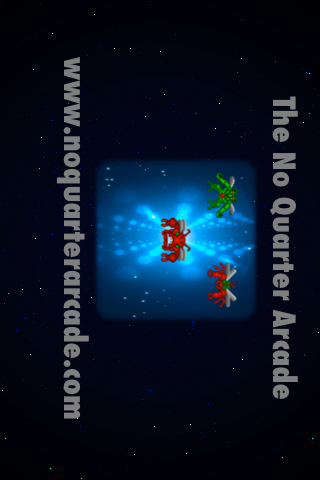
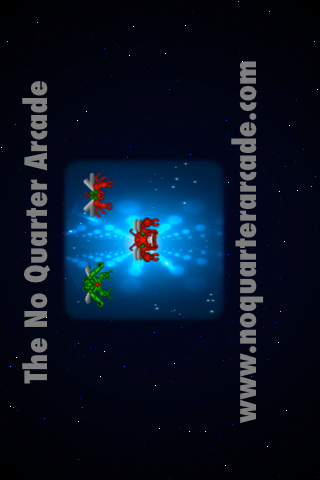
More changes for consistent orientation on startup

Changed region(s): [[0.0625, 0.0938, 0.9375, 0.9062]]

diff --git a/Classes/ES1Renderer.m b/Classes/ES1Renderer.m
@@ -136,13 +136,18 @@
 	glMatrixMode(GL_MODELVIEW);
     glLoadIdentity();
 
-	UIDeviceOrientation orientation = [[UIDevice currentDevice] orientation];
     GLfloat direction;
-	if (orientation == UIDeviceOrientationLandscapeRight) {
-        direction = 90;
+    if (UI_USER_INTERFACE_IDIOM() == UIUserInterfaceIdiomPad) {
+        UIDeviceOrientation orientation = [[UIDevice currentDevice] orientation];
+        if (orientation == UIDeviceOrientationLandscapeRight) {
+            direction = 90;
+        } else {
+            direction = -90;
+        }
     } else {
-        direction = -90;
+        direction = 90;
     }
+
 	glTranslatef(backingWidth/2, backingHeight/2, 0);
 	glRotatef(direction, 0, 0, 1);
 	glTranslatef(-backingHeight/2,-backingWidth/2,0);

diff --git a/Classes/ClassicInvadersAppDelegate.m b/Classes/ClassicInvadersAppDelegate.m
@@ -42,10 +42,10 @@ BOOL isGameCenterAvailable()
 
 	[glView_ setMultipleTouchEnabled:YES];
 
-    sharedGameController_.interfaceOrientation_ = UIInterfaceOrientationLandscapeRight;
+    sharedGameController_.interfaceOrientation_ = UIInterfaceOrientationLandscapeLeft;
 	// Start getting device orientation notifications
 	[[UIDevice currentDevice] beginGeneratingDeviceOrientationNotifications];
-    [[UIApplication sharedApplication] setStatusBarOrientation:UIInterfaceOrientationLandscapeRight];
+    [[UIApplication sharedApplication] setStatusBarOrientation:UIInterfaceOrientationLandscapeLeft];
 
     [sharedGameController_ loadSettings];
 
